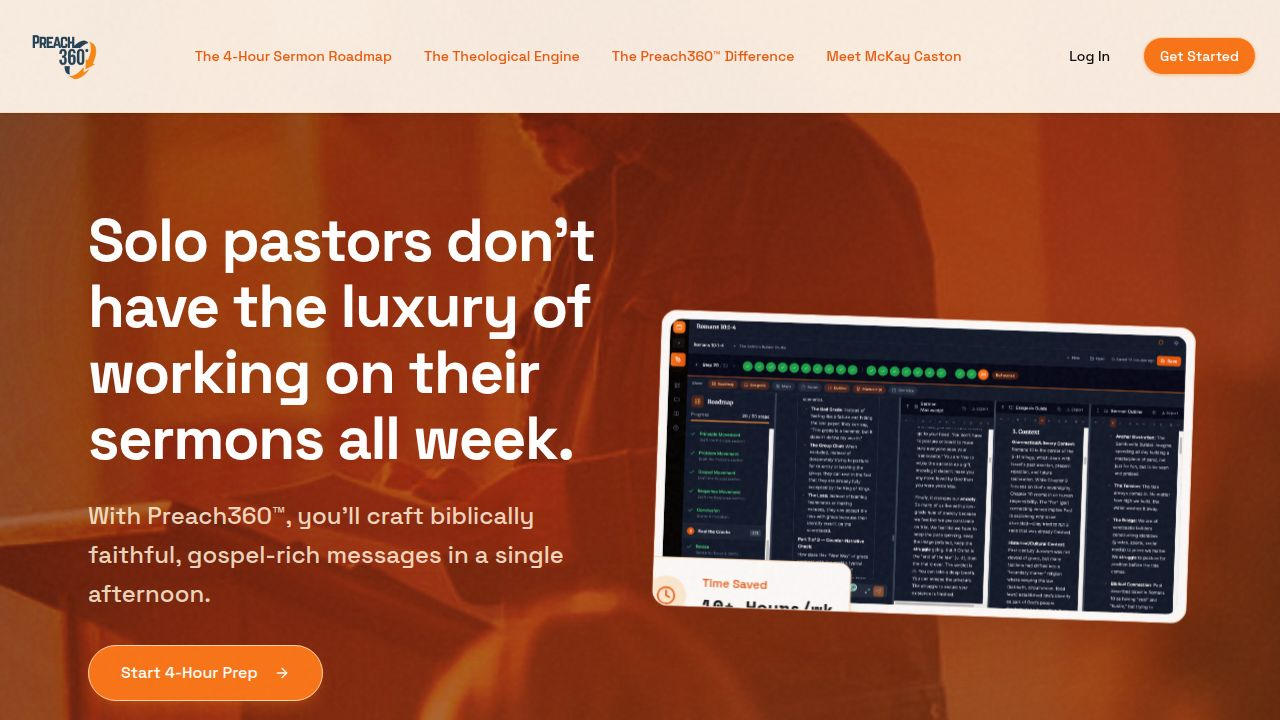
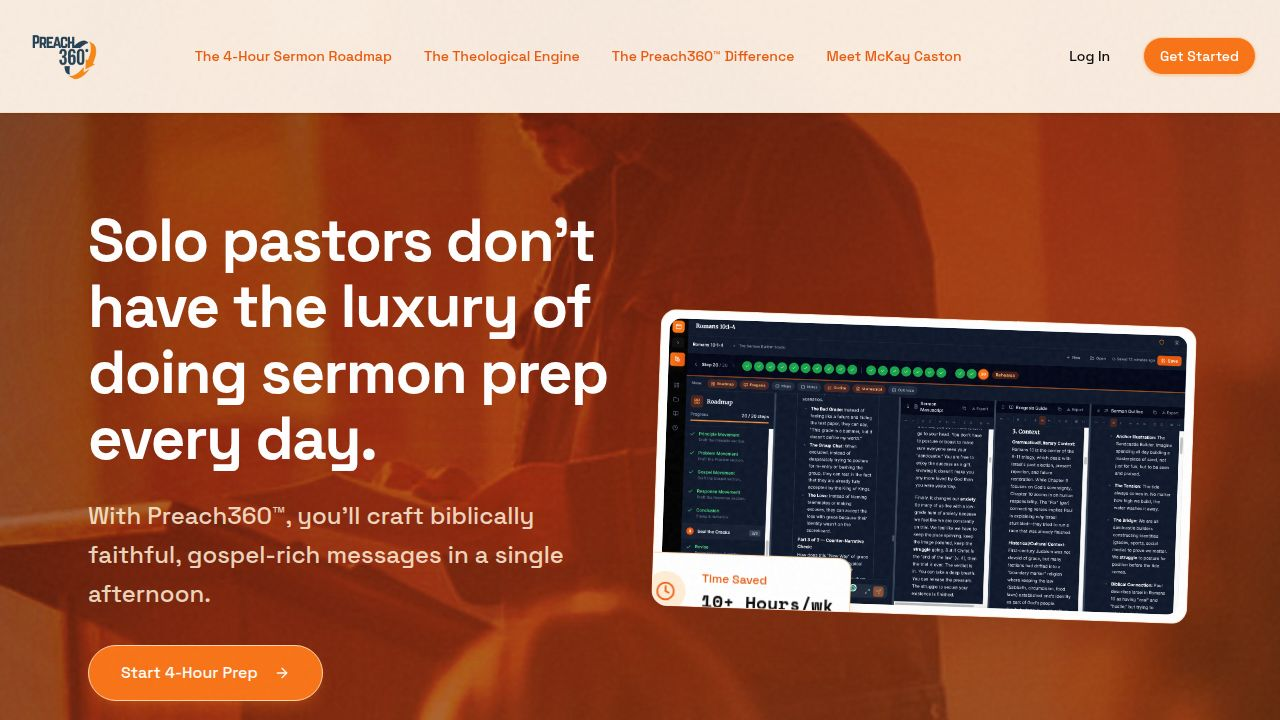
Update main header text to better reflect solo pastor's sermon prep challenges
Modify the primary H1 heading on the home page to state "Solo pastors don't have the luxury of doing sermon prep every day."

Replit-Commit-Author: Agent
Replit-Commit-Session-Id: b40ebc65-716c-42ff-8a29-f355e8ec55d6
Replit-Commit-Checkpoint-Type: full_checkpoint
Replit-Commit-Event-Id: 925d7b03-1149-40c6-aee6-9f021183d665
Replit-Commit-Screenshot-Url: https://storage.googleapis.com/screenshot-production-us-central1/52b2e9a9-1aca-4f31-b761-2a0e85fbc987/b40ebc65-716c-42ff-8a29-f355e8ec55d6/d29ZhWI
Replit-Helium-Checkpoint-Created: true

diff --git a/client/src/pages/home.tsx b/client/src/pages/home.tsx
@@ -35,7 +35,7 @@ export default function Home() {
               className="max-w-2xl"
             >
               <h1 className="text-3xl md:text-5xl lg:text-6xl font-bold tracking-tight text-white mb-6 leading-[1.1]">
-                Solo pastors don't have the luxury of working on their sermons all week.
+                Solo pastors don't have the luxury of doing sermon prep every day.
               </h1>
               
               <div className="mb-8 max-w-xl">
